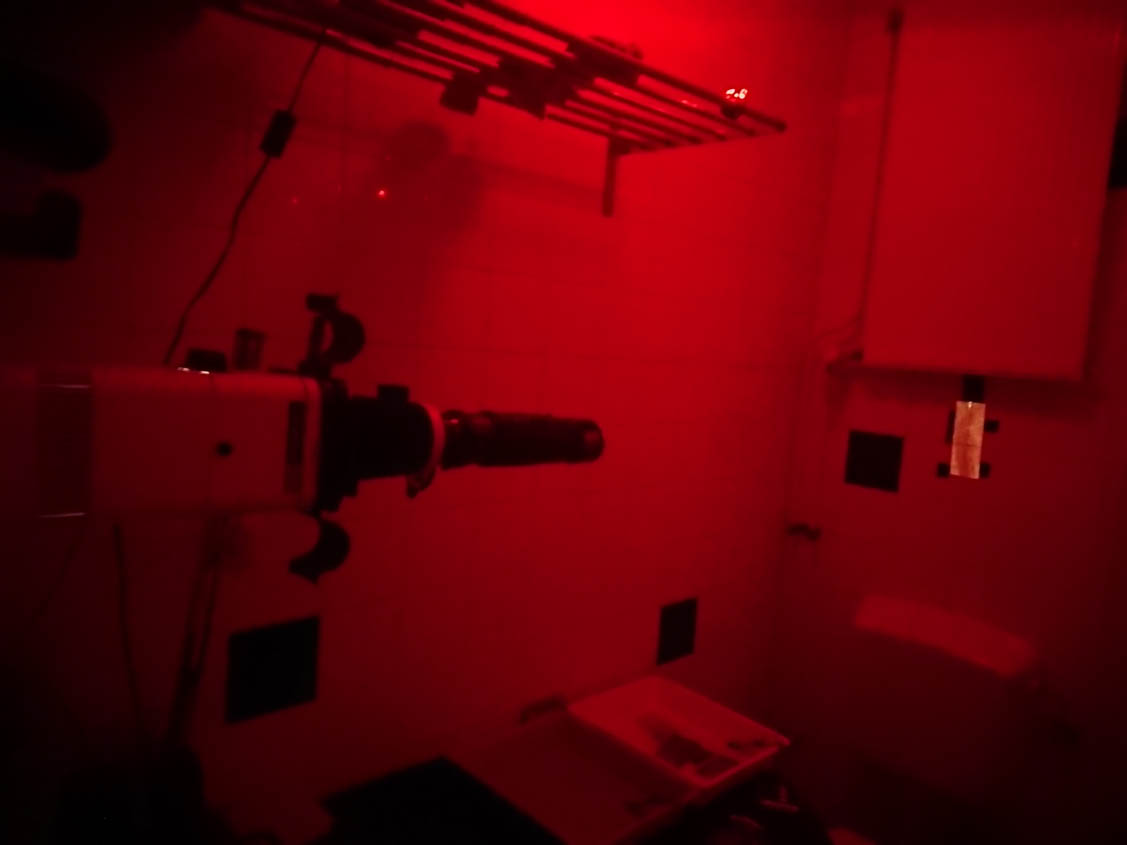
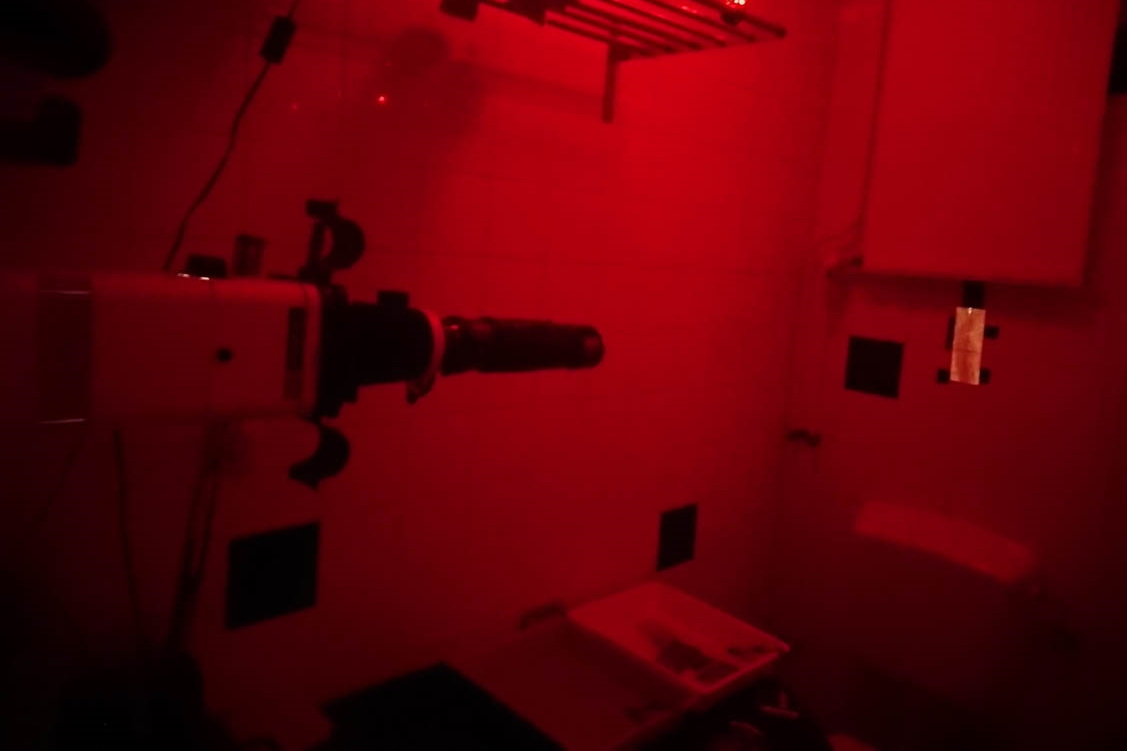
Thumbnails updated to 2:3 ratio

diff --git a/portfolio/_photo_various/2020-04-19-Anamorphic_Photography.md b/portfolio/_photo_various/2020-04-19-Anamorphic_Photography.md
@@ -1,7 +1,7 @@
 ---
 layout: portfolio
 title: "Anamorphic Photography"
-preview_image_url: "/assets/images/photography/photo_various/photos/JKW_8654bewerkt-8654.tifbewerkt-large-8654webready-8654.jpg"
+preview_image_url: "/assets/images/photography/photo_various/photos/AnamorphicPhotoThumb.jpg"
 ---
 
 <br/>

diff --git a/portfolio/_video/2019-03-17-Droneclash_anamorphic_musicvideo.md b/portfolio/_video/2019-03-17-Droneclash_anamorphic_musicvideo.md
@@ -1,6 +1,6 @@
 ---
 layout: portfolio
-title: "DroneClash 2019: an Anamorphic music video"
+title: "DroneClash: Anamorphic music video"
 preview_image_url: "/assets/images/photography/video/Droneclashthumb.jpg"
 ---
 
